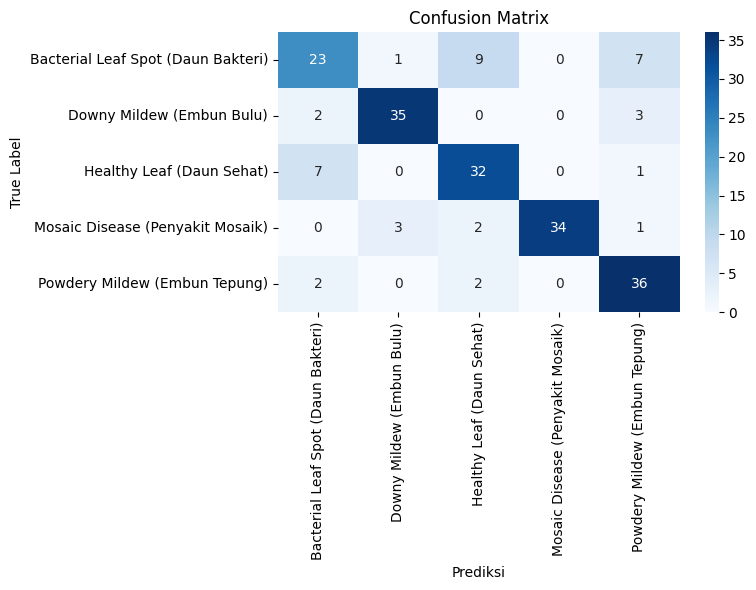
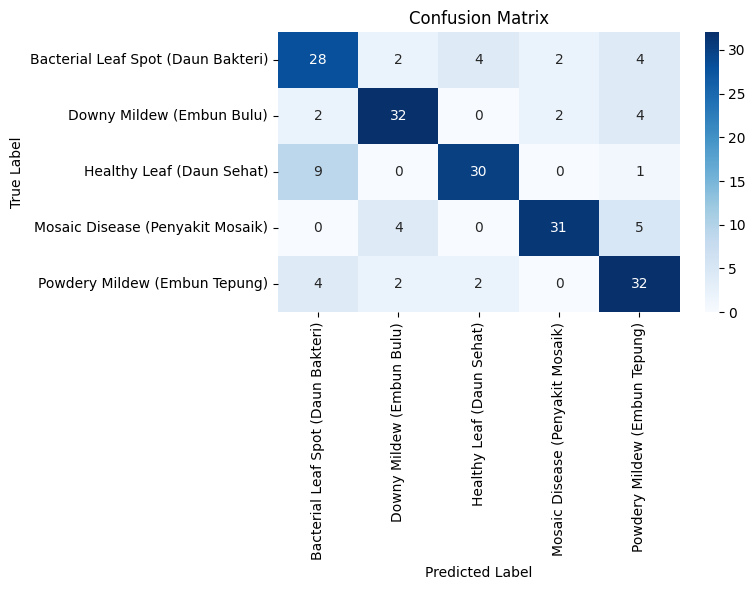
update model

diff --git a/pages/1_Klasifikasi.py b/pages/1_Klasifikasi.py
@@ -10,10 +10,10 @@ import gdown
 
 # Load model dan label
 # Cek apakah file model sudah ada
-model_path = "vgg16_timun_model.keras"
+model_path = "vgg16_timun_model_v2.keras"
 if not os.path.exists(model_path):
     with st.spinner("🔄 Mengunduh model CNN VGG16 (**129 MB**) untuk klasifikasi daun timun..."):
-        file_id = "1vxjGyD9lYeod5Kr96Sjlaw8FlaYtzjTJ"  # Ganti sesuai ID Google Drive
+        file_id = "1C6mMtsdDEx43AHp-8dyxrfrHB9O2IqB0"  # Ganti sesuai ID Google Drive
         url = f"https://drive.google.com/uc?id={file_id}"
         output = model_path
         gdown.download(url, output, quiet=False)

diff --git a/pages/3_Tentang.py b/pages/3_Tentang.py
@@ -35,8 +35,8 @@ st.subheader("🎯 Performa Model")
 st.markdown("""
 Model yang telah dilatih menunjukkan performa sebagai berikut:
 
-- **Akurasi pada dataset validasi**: **80,00%**
-- **Akurasi pada dataset test**: **78,50%**
+- **Akurasi pada dataset validasi**: **76,50%**
+- **Akurasi pada dataset test**: **76,50%**
 
 Evaluasi dilakukan menggunakan metrik:
 - **Confusion Matrix**
